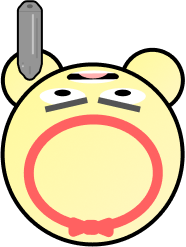
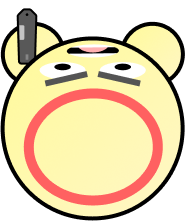
Añadida pistola 2, mejoras y actualizadas imagenes

diff --git a/v1.0.0/public/scripts/cambiarArma.js b/v1.0.0/public/scripts/cambiarArma.js
@@ -1,5 +1,5 @@
 function cambiarArma() {// cambio de imagen (y modo disparo!) Para el cambio de arma con la ruleta del raton
-    event.preventDefault();//TODO: Actualizar a cambio con variable para evitar repetición de código
+    event.preventDefault();//TODO: Actualizar a cambio con variable para evitar repetición de código (igual que cambio imagen)
     switch (Jugador.armaActual) {
         case 1:
             Jugador.armaActual = 2;
@@ -13,9 +13,9 @@ function cambiarArma() {// cambio de imagen (y modo disparo!) Para el cambio de 
                 cambiarImagenPersonaje("ESCOPETA1");
             } else if (Jugador.arma2.nombreArma2 == "RIFLEASALTO1") {
                 cambiarImagenPersonaje("RIFLEASALTO1");
-            }/* else if (Jugador.arma2.nombreArma2 == "PISTOLA2") {
+            } else if (Jugador.arma2.nombreArma2 == "PISTOLA2") {
                 cambiarImagenPersonaje("PISTOLA2");
-            }*/ else if (Jugador.arma2.nombreArma2 == "ARMARAYOS") {
+            } else if (Jugador.arma2.nombreArma2 == "ARMARAYOS") {
                 cambiarImagenPersonaje("ARMARAYOS");
             }
 
@@ -34,9 +34,9 @@ function cambiarArma() {// cambio de imagen (y modo disparo!) Para el cambio de 
                 cambiarImagenPersonaje("ESCOPETA1");
             } else if (Jugador.arma1.nombreArma1 == "RIFLEASALTO1") {
                 cambiarImagenPersonaje("RIFLEASALTO1");
-            }/* else if (Jugador.arma1.nombreArma1 == "PISTOLA2") {
+            } else if (Jugador.arma1.nombreArma1 == "PISTOLA2") {
                 cambiarImagenPersonaje("PISTOLA2");
-            }*/ else if (Jugador.arma1.nombreArma1 == "ARMARAYOS") {
+            } else if (Jugador.arma1.nombreArma1 == "ARMARAYOS") {
                 cambiarImagenPersonaje("ARMARAYOS");
             }
 

diff --git a/v1.0.0/public/scripts/generarArma.js b/v1.0.0/public/scripts/generarArma.js
@@ -8,7 +8,7 @@ function generarArma(i) {//i es el indice del zombie que ha muerto
 
     var idArma = "PISTOLA1";
 
-    switch (Math.floor(Math.random() * 4) + 1) {//añadir luego quiza condiciones de rondas para armas mas potentes
+    switch (Math.floor(Math.random() * 5) + 1) {//añadir luego quiza condiciones de rondas para armas mas potentes
         case 1:
             idArma = "ESCOPETA1";
             break;
@@ -19,26 +19,15 @@ function generarArma(i) {//i es el indice del zombie que ha muerto
         case 3:
             idArma = "ARMARAYOS";
             break;
-        default:
+        case 4:
+            idArma = "PISTOLA2";
+            break;
+        default://pistola1
             break;
     }
 
-    switch (idArma) {
-        case "PISTOLA1":
-            imagen.setAttribute("src", "./resources/armas/PISTOLA1DROP.png");
-            break;
-        case "ESCOPETA1":
-            imagen.setAttribute("src", "./resources/armas/ESCOPETA1DROP.png");
-            break;
-        case "RIFLEASALTO1":
-            imagen.setAttribute("src", "./resources/armas/RIFLEASALTO1DROP.png");
-            break;//añadir mas con formen haya mas
-        case "ARMARAYOS":
-            imagen.setAttribute("src", "./resources/armas/ARMARAYOSDROP.png");
-            break;
-        default:
-            break;
-    }
+    imagen.setAttribute("src", "./resources/armas/" + idArma + "DROP.png");
+
     imagen.setAttribute("height", "100%");
     arma.appendChild(imagen);
     container.appendChild(arma);

diff --git a/v1.0.0/public/scripts/armas.js b/v1.0.0/public/scripts/armas.js
@@ -39,19 +39,19 @@ const listadoArmas = [{
         recarga: 2800,
         cadencia: 200,
         velocidad: 2,
-        impacto: 850,//Arma especial
+        impacto: 950,//Arma especial
         onCooldown: false
-}/*,
+},
 {
         nombre: "PISTOLA2",//Tipo desert eagle, lenta y potente
         cargador: 7,
         tamanoCargador: 7,
         municion: 94,
         recarga: 2000,
-        cadencia: 500,
-        velocidad: 1.3,
+        cadencia: 700,
+        velocidad: 1.4,
         impacto: 400,
         onCooldown: false
-}*/
+}
 
 ]

diff --git a/v1.0.0/public/css/indexStyle.css b/v1.0.0/public/css/indexStyle.css
@@ -61,7 +61,7 @@ p {
     width: 80%;
 }
 
-.PISTOLA1 {
+.PISTOLA1, .PISTOLA2 {
     width: 1vw;
     height: 1vw;
     position: absolute;
